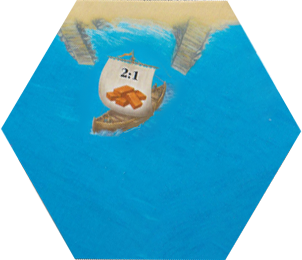
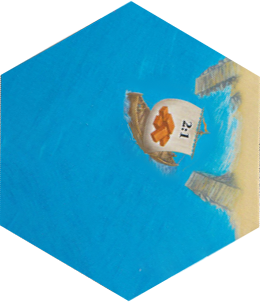
Changed the layout for not using polygon for shaping the board. Rotated the pictures 90deg. Deleted unnecessary code.

diff --git a/CCMG_OCEAN.css b/CCMG_OCEAN.css
@@ -1,0 +1,95 @@
+/* Top ocean row */
+#b0 {
+    background-image: url("sources/ocean/1_sided_beach.png");
+    transform: rotate(62deg);
+}
+
+#b1 { 
+    background-image: url("sources/ocean/2_sided_beach.png");
+    transform: rotate(180deg); 
+}
+
+#b2{ 
+    background-image: url("sources/ocean/2_sided_beach.png");
+    transform: rotate(180deg);
+}
+
+#b3{ 
+    background-image: url("sources/ocean/1_sided_beach.png");
+    transform: rotate(120deg); 
+}
+
+/* 1. row */
+#b4 { 
+    background-image: url("sources/ocean/2_sided_beach.png");
+    transform: rotate(120deg); 
+}
+
+#b5 { 
+    background-image: url("sources/ocean/2_sided_beach.png");
+    transform: rotate(-120deg); 
+}
+
+/* 2. row */
+#b6 { 
+    background-image: url("sources/ocean/2_sided_beach.png");
+    transform: rotate(120deg); 
+}
+
+
+#b7 { 
+    background-image: url("sources/ocean/2_sided_beach.png");
+    transform: rotate(-120deg); 
+}
+
+/* 3. row */
+#b8 { 
+    background-image: url("sources/ocean/1_sided_beach.png"); 
+}
+
+
+#b9 { 
+    background-image: url("sources/ocean/1_sided_beach.png");
+    transform: rotate(180deg); 
+}
+
+/* 4. row */
+#b10 { 
+    background-image: url("sources/ocean/2_sided_beach.png");
+    transform: rotate(60deg); 
+}
+
+#b11 { 
+    background-image: url("sources/ocean/2_sided_beach.png");
+    transform: rotate(-60deg); 
+}
+
+/* 5. row */
+#b12 { 
+    background-image: url("sources/ocean/2_sided_beach.png");
+    transform: rotate(60deg); 
+}
+
+#b13 { 
+    background-image: url("sources/ocean/2_sided_beach.png");
+    transform: rotate(-60deg);  
+}
+
+/* Bottom row */
+#b14 { 
+    background-image: url("sources/ocean/1_sided_beach.png");
+    transform: rotate(-60deg); 
+}
+
+#b15 { 
+    background-image: url("sources/ocean/2_sided_beach.png");
+}
+
+#b16 { 
+    background-image: url("sources/ocean/2_sided_beach.png");
+}
+
+#b17 { 
+    background-image: url("sources/ocean/1_sided_beach.png");
+    transform: rotate(-118deg); 
+}

diff --git a/CCMG_BOARD.css b/CCMG_BOARD.css
@@ -9,38 +9,35 @@
 .hex-row {
     display: flex;
     justify-content: center;
-    gap: 5px; /* A hexák pontosan összeérnek */
+    gap: 5px; /* hexes are closer */
     width: 100%;
-    margin-top: -3%;
-}
-
-.hex-ocean {
-    background-color: #1e3f66; /* vagy használhatsz background-image-t */
-    opacity: 0.8;
+    margin-top: -2.8%;
 }
 
 .hex {
-    width: calc(100% / 6.7);
-    height: 124.775px;
-    background-size: 100% 100% ;
-    clip-path: polygon(50% 0%, 100% 25%, 100% 75%, 50% 100%, 0% 75%, 0% 25%);
+    width: 6rem;
+    height: 7rem;
+    background-size: cover;
     display: flex;
     align-items: center;
     justify-content: center;
+    overflow: hidden;
 }
 
 .offset {
-    margin-left: calc(100% / 230); /* Fél hexagonnyi eltolás */
+    margin-left: calc(100% / 230);
+    /* half hex offset */
 }
 
 .catanMap {
-    width: 99vh;
+    width: 100%;
+    max-width: 99vw;
     align-items: center;
     justify-content: center;
     margin-top: 20px;
 }
 
-@media (max-width: 875px) {
+@media (max-width: 1175px) {
 
     .catanMap {
         width: 100%;
@@ -48,30 +45,20 @@
     }
 
     .hex {
-        width: calc(100% / 6.7);
+        width: 5rem;
+        height: 6rem;
     }
 }
 
-@media(max-width: 700px){
-    .hex-row{
-        margin-top: -3.5%;
-    }
-}
+@media (max-width: 710px) {
 
-@media(max-width: 600px){
-    .hex-row{
-        margin-top: -5%;
+    .catanMap {
+        width: 100%;
+        max-width: 99vw;
     }
-}
 
-@media(max-width: 500px){
-    .hex-row{
-        margin-top: -7%;
-    }
-}
-
-@media(max-width: 400px){
-    .hex-row{
-        margin-top: -9%;
+    .hex {
+        width: 4rem;
+        height: 5rem;
     }
 }

diff --git a/ClassicCMG.html b/ClassicCMG.html
@@ -5,9 +5,10 @@
         <link rel="stylesheet" href="https://cdn.jsdelivr.net/npm/bootstrap@4.4.1/dist/css/bootstrap.min.css" integrity="sha384-Vkoo8x4CGsO3+Hhxv8T/Q5PaXtkKtu6ug5TOeNV6gBiFeWPGFN9MuhOf23Q9Ifjh" crossorigin="anonymous">
         <link rel="stylesheet" href="CMG_STYLE.css">
         <link rel="stylesheet" href="CCMG_BOARD.css">
+        <link rel="stylesheet" href="CCMG_OCEAN.css">
     </head>
     <body>
-        <div class="container-fluid vh-100 d-flex p-3">
+        <div class="container d-flex p-3">
             <div class="row m-4">
                 <!--LEFT SIDE-->
                 <div class="col-sm-12 col-md-12 col-lg-4 align-content-center">
@@ -62,7 +63,7 @@
                                     <input id="cb5" type="checkbox">
                                 </li>
                                 <li>
-                                    <label for="cb6">Randomize harbor positions</label>
+                                    <label for="cb6">Change harbor positions</label>
                                     <input id="cb6" type="checkbox">
                                 </li>
                             </ul>

diff --git a/scripts/resources.js b/scripts/resources.js
@@ -37,16 +37,9 @@ const resourcesModule = (function () {
     }
 
     // Backtracking algorithm to place resources
-    function tryPlaceResources(hexes, options) {
+    function placeResources(hexes, options) {
         // Filter out ocean hexes (those with IDs starting with 'b')
         const terrainHexes = Array.from(hexes).filter(hex => hex.id && hex.id.startsWith('t'));
-        const oceanHexes = Array.from(hexes).filter(hex => hex.id && hex.id.startsWith('b'));
-
-        // Make sure ocean hexes stay as ocean
-        oceanHexes.forEach(hex => {
-            hex.style.backgroundImage = '';
-            hex.classList.add('hex-ocean');
-        });
 
         const currentResources = {};
 
@@ -112,10 +105,6 @@ const resourcesModule = (function () {
         if (success) {
             return currentResources;
         }
-    }
-
-    function placeResources(hexes, options) {
-        return tryPlaceResources(hexes, options);
     }
 
     return {
